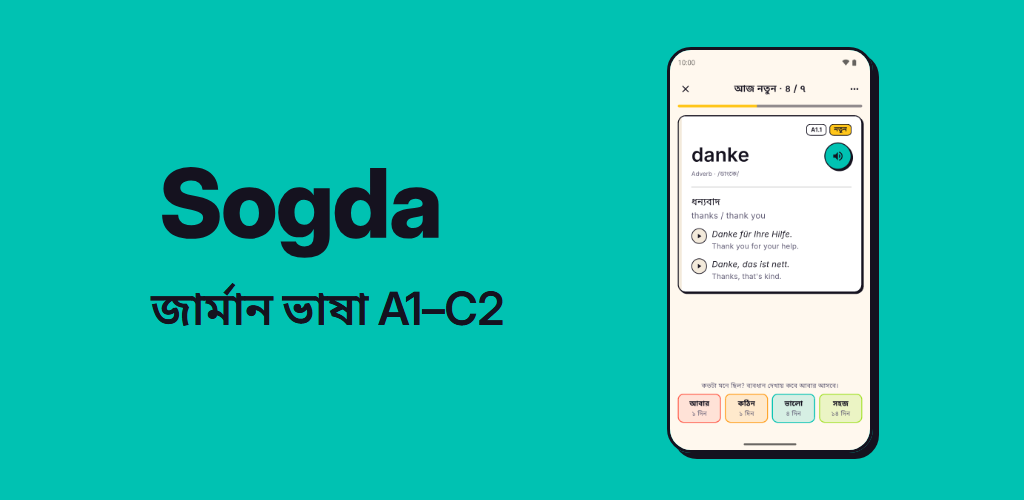
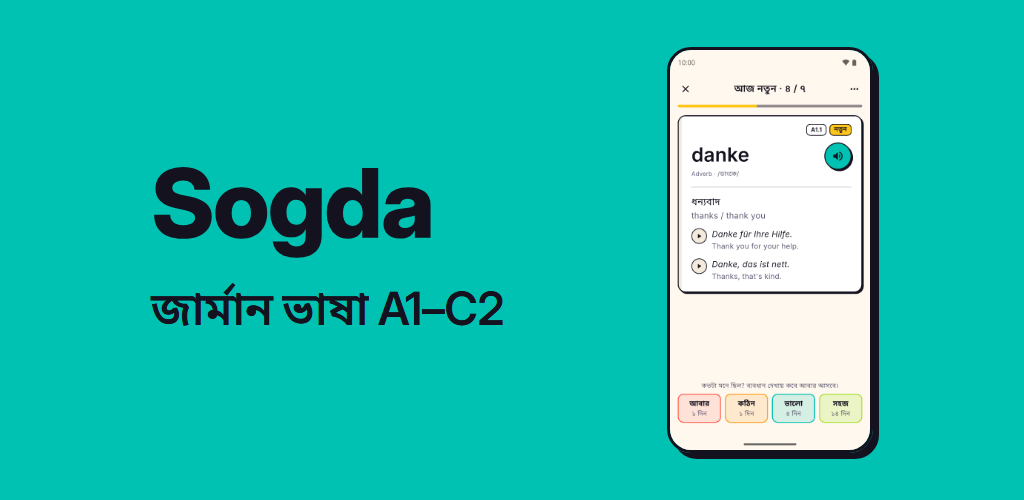
media(play): the wordmark's S lines up with the title (agent-0's nit on #1375) (#1323)

Changed region(s): [[0.125, 0.33, 0.4375, 0.54]]

diff --git a/tools/media/feature_graphic.py b/tools/media/feature_graphic.py
@@ -48,7 +48,9 @@ SETS = {"en": "phone-light", "bn": "bn-phone-light", "pl": "pl-phone-light", "ru
 
 
 def wordmark() -> str:
-    """The kit's Ink wordmark, the name alone (#1323: not the icon's tiles)."""
+    """The kit's Ink wordmark, the name alone (#1323: not the icon's tiles).
+    Its viewBox starts 10 units left of the S: at 300 px wide that's 8 px,
+    which the page takes back so the S lines up with the title."""
     svg = (KIT / "svg" / "wordmark-ink.svg").read_text(encoding="utf-8")
     sized = re.sub(r' width="[^"]+" height="[^"]+"', ' width="300"', svg, count=1)
     assert sized != svg, "the kit's wordmark changed: check its size"
@@ -74,7 +76,7 @@ body{{width:{WIDTH}px;height:{HEIGHT}px;background:{colour("lagoon")};color:{col
 display:flex;align-items:center;justify-content:center;gap:56px;overflow:hidden}}
 .copy{{display:flex;flex-direction:column;gap:22px;width:460px}}
 .nb{{white-space:nowrap}}
-svg{{display:block}}
+svg{{display:block;margin-left:-8px}}
 h1{{font-size:{TYPE["sizes"]["feature"]["title"]}px;font-weight:{TYPE["weights"]["title"]};letter-spacing:{TYPE["tracking"]["title"]}em;line-height:1.15}}
 img{{display:block;height:400px;border:{FRAME["border"]}px solid {colour("ink")};border-radius:{FRAME["radius"]}px;box-shadow:{FRAME["shadow"]}px {FRAME["shadow"]}px 0 {colour("ink")}}}
 </style></head><body><div class="copy">{wordmark()}<h1>{title}</h1></div>
